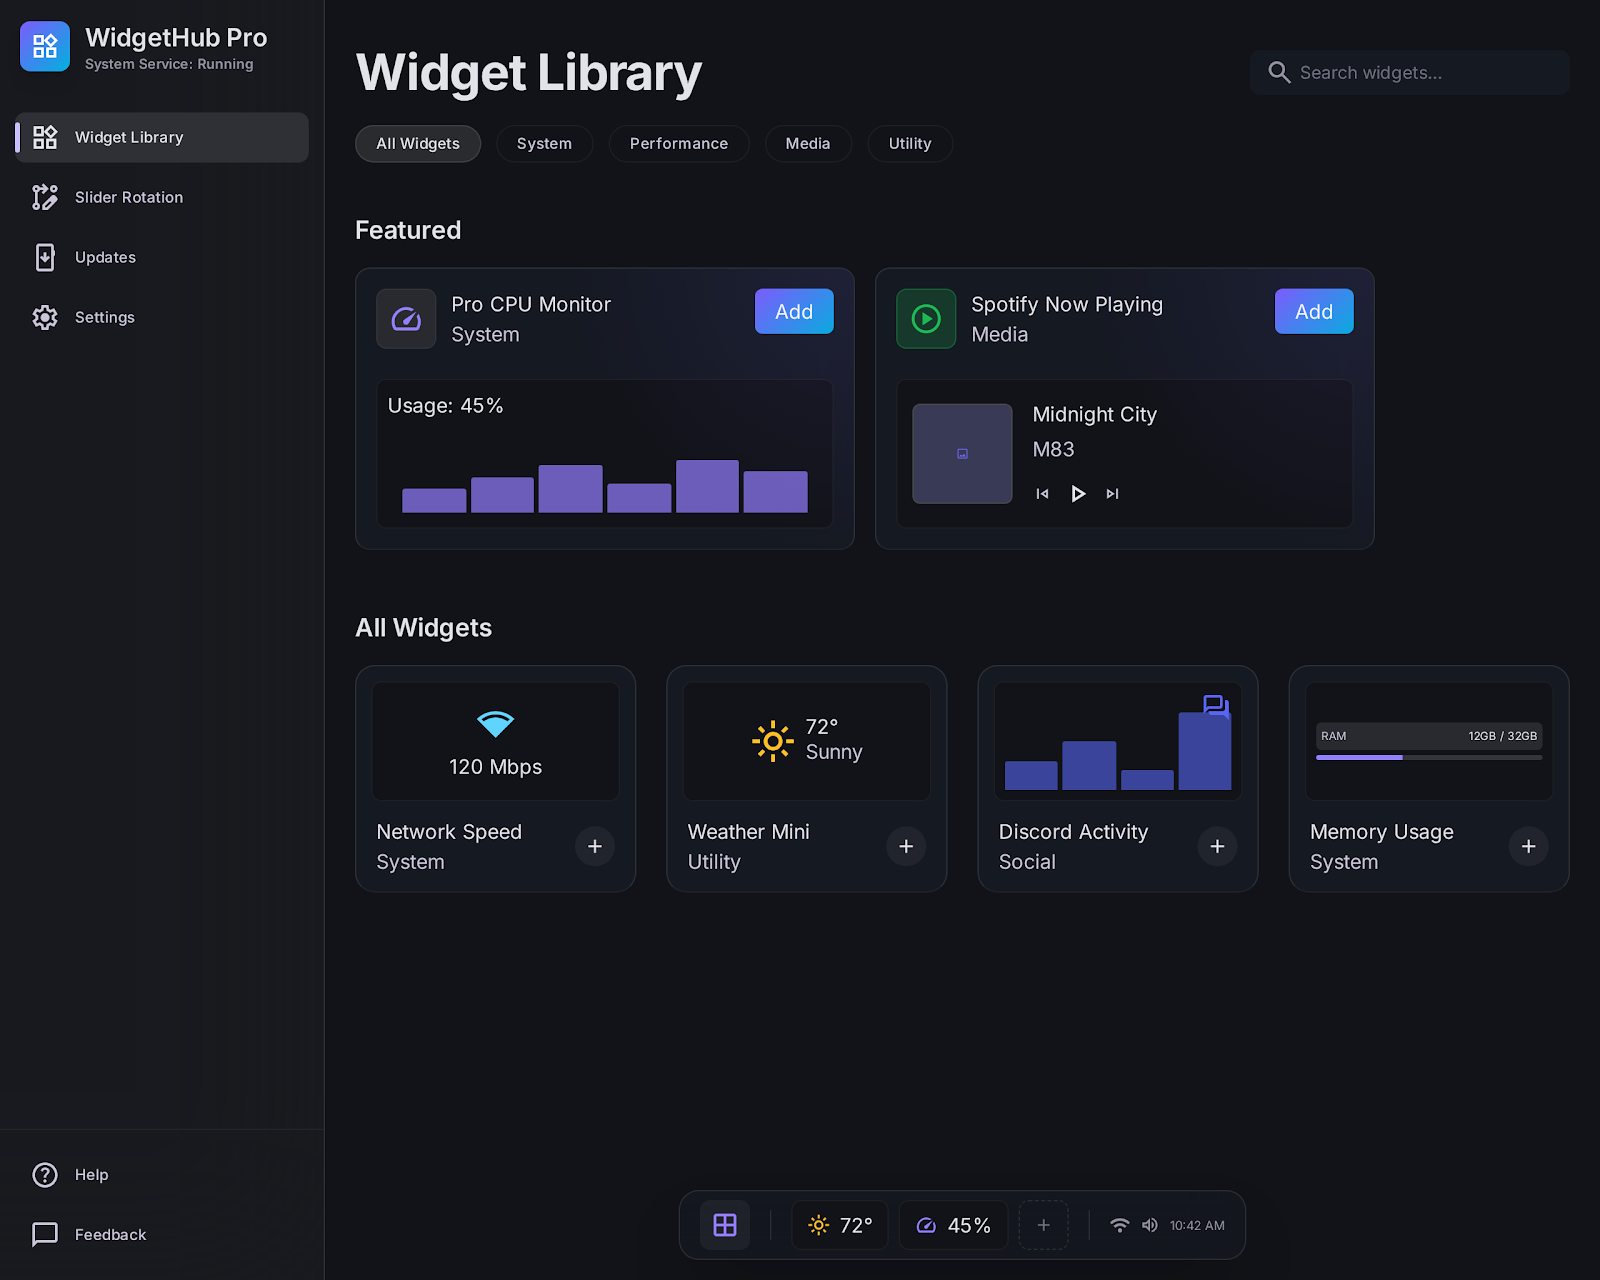
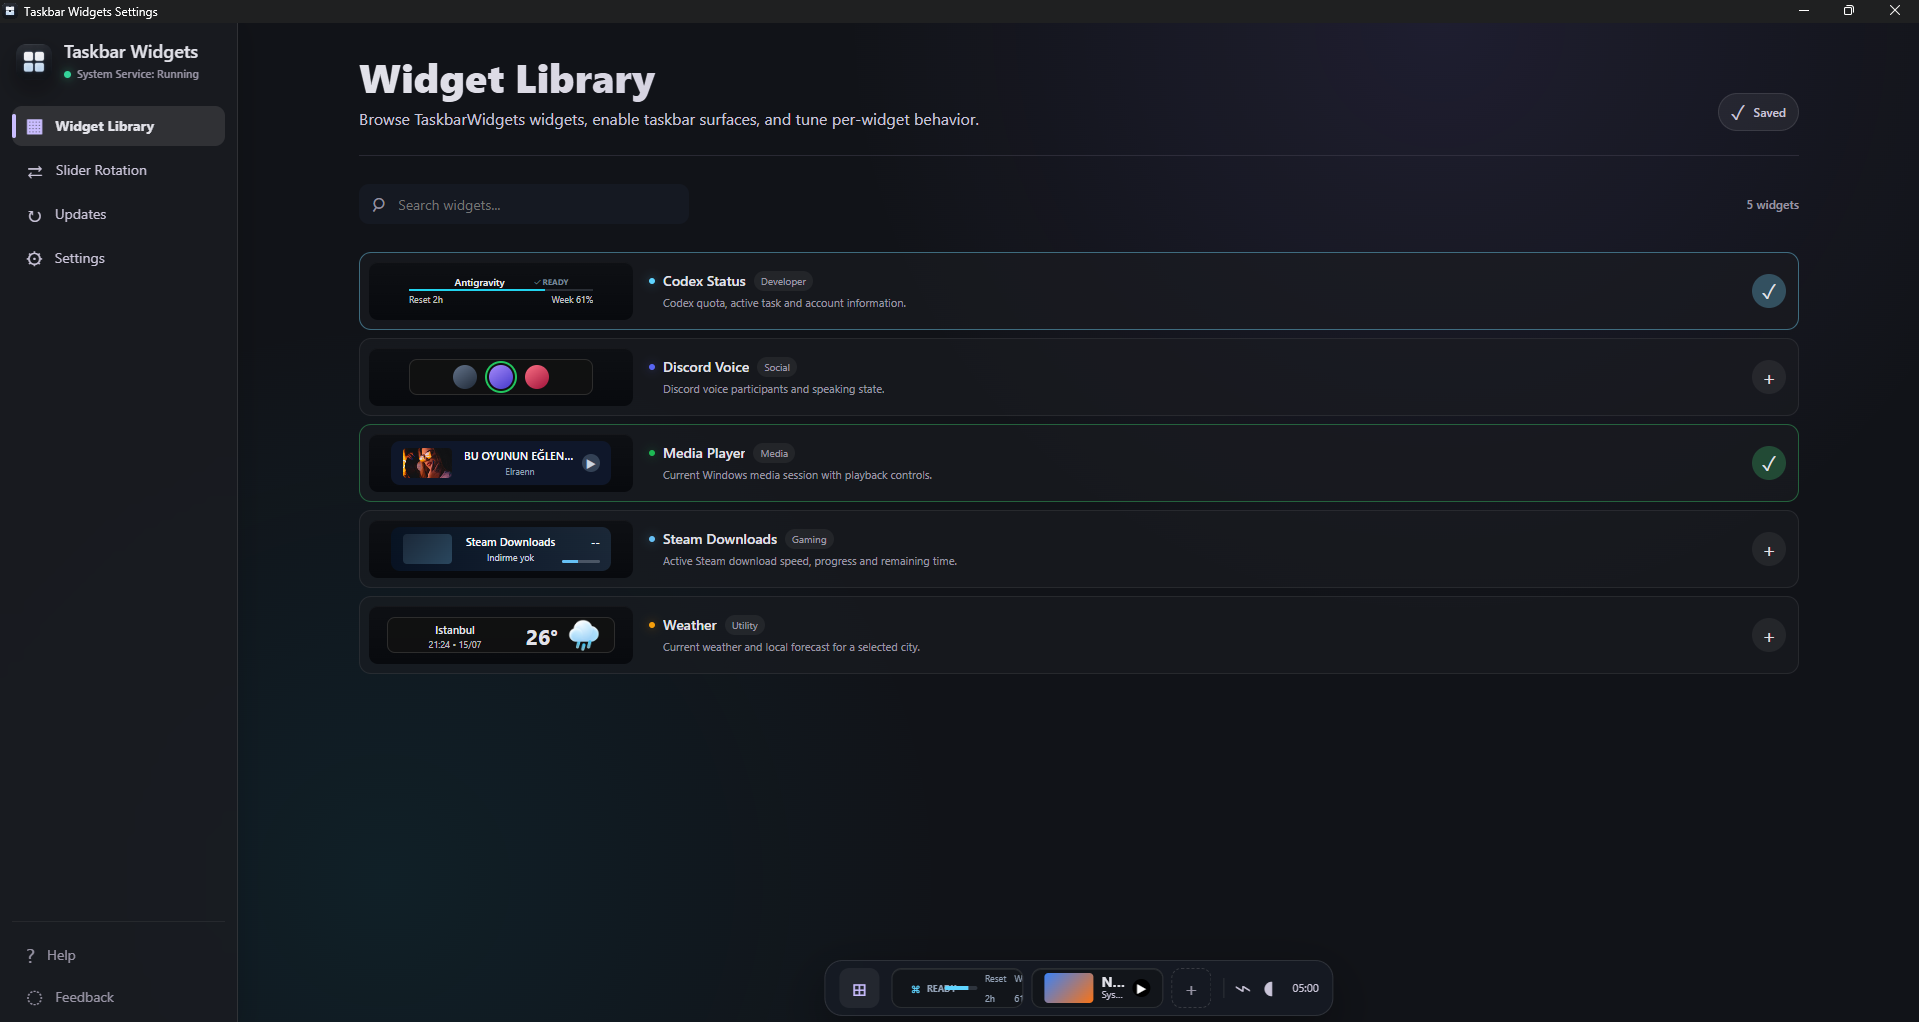
Rewrite README with downloads and real screenshots

diff --git a/README.md b/README.md
@@ -1,35 +1,172 @@
 <p align="center">
-  <img src="assets/branding/logo.png" alt="Taskbar Widgets logo" width="96" height="96" />
+  <img src="assets/branding/logo.png" alt="Taskbar Widgets logo" width="112" height="112" />
 </p>
 
-# Taskbar Widgets
+<h1 align="center">Taskbar Widgets</h1>
 
-Taskbar Widgets is an open-source Windows 11 x64 application that places small,
-live widgets directly on the taskbar. The first catalog contains Codex Status,
-Weather, Discord Voice, Media Player, and Steam Downloads. Widgets can be shown
-side by side or in an optional rotation layout.
+<p align="center">
+  Live, native-looking widgets for the Windows 11 taskbar.
+</p>
 
-## Widget showcase
+<p align="center">
+  <a href="https://github.com/pfcdev/TaskbarWidgets/releases/latest"><img alt="Latest release" src="https://img.shields.io/github/v/release/pfcdev/TaskbarWidgets?sort=semver&display_name=tag&style=flat-square" /></a>
+  <img alt="Windows 11 x64" src="https://img.shields.io/badge/Windows%2011-x64-0078D4?style=flat-square&logo=windows11&logoColor=white" />
+  <a href="LICENSE"><img alt="MIT License" src="https://img.shields.io/badge/license-MIT-22c55e?style=flat-square" /></a>
+</p>
+
+<p align="center">
+  <a href="https://github.com/pfcdev/TaskbarWidgets/releases/latest/download/TaskbarWidgetsSetup-x64.exe"><strong>Download the latest installer</strong></a>
+  ·
+  <a href="https://github.com/pfcdev/TaskbarWidgets/releases/latest/download/TaskbarWidgets-portable-x64.zip">Portable ZIP</a>
+  ·
+  <a href="README.tr.md">Türkçe hızlı başlangıç</a>
+</p>
 
 <p align="center">
   <img src="assets/readme/widget-showcase.png" alt="Weather, Steam Downloads, Codex Status, and Media Player widgets running side by side on the Windows taskbar" />
 </p>
 
-<p align="center"><sub>Real taskbar output with multiple widgets enabled in row mode.</sub></p>
+Taskbar Widgets is an open-source Windows 11 x64 application that places useful,
+live information directly on the taskbar. Enable several widgets side by side,
+position them independently, or cycle through them with the optional rotation
+layout. The installer includes the loader, Settings application, native hook,
+media helper, and every built-in widget as one product.
 
 > [!WARNING]
-> The Explorer integration uses private Windows 11 XAML surfaces. Unsupported
-> Windows builds are detected at runtime and the hook fails closed, but this is
-> still beta software. See [Private API risks](docs/windows-private-api-risks.md).
+> Taskbar Widgets integrates with private Windows 11 XAML surfaces and is still
+> beta software. An incompatible taskbar layout disables the integration instead
+> of forcing it. Unsigned builds may also trigger a Windows SmartScreen warning.
+> Read the [private API risk notes](docs/windows-private-api-risks.md) before use.
 
-## Product model
+## One app for every widget
 
-Users install one product and launch `TaskbarWidgets.exe`. The loader owns data
-providers, lifecycle, migration, updates, and account management. Settings is an
-internal process opened with `TaskbarWidgets.exe --settings`. A native hook does
-only taskbar hosting and rendering; provider failures never run inside Explorer.
+<p align="center">
+  <img src="docs/images/settings-library.png" alt="Taskbar Widgets Settings application showing the complete Widget Library" />
+</p>
 
-User data is stored beside the installed program under `Data`:
+The built-in Widget Library shows the real taskbar design before a widget is
+enabled. Click anywhere on a widget card to configure it, then add it to the
+taskbar from the same screen. Slider Rotation, updates, runtime controls and
+global settings are available from the shared Settings application.
+
+## Included widgets
+
+<table>
+  <tr>
+    <td align="center" width="50%">
+      <img src="assets/readme/widget-weather.png" alt="Weather widget" /><br />
+      <strong>Weather</strong><br />
+      Current temperature, city and local forecast with configurable units.
+    </td>
+    <td align="center" width="50%">
+      <img src="assets/readme/widget-steam-downloads.png" alt="Steam Downloads widget" /><br />
+      <strong>Steam Downloads</strong><br />
+      Active game, download progress, speed and estimated remaining time.
+    </td>
+  </tr>
+  <tr>
+    <td align="center" width="50%">
+      <img src="assets/readme/widget-codex-status.png" alt="Codex Status widget" /><br />
+      <strong>Codex Status</strong><br />
+      Active task state, account information, quota usage and reset windows.
+    </td>
+    <td align="center" width="50%">
+      <img src="assets/readme/widget-media-player.png" alt="Media Player widget" /><br />
+      <strong>Media Player</strong><br />
+      Current Windows media session, cover art and playback controls.
+    </td>
+  </tr>
+</table>
+
+**Discord Voice** is also included. It shows voice participants and highlights
+the current speaker after Discord RPC authorization is configured in Settings.
+
+### Codex accounts and IDE controls
+
+<table>
+  <tr>
+    <td width="360" align="center">
+      <img src="assets/readme/codex-accounts-redacted.png" alt="Codex account switcher with email addresses redacted" />
+    </td>
+    <td>
+      <p>The Codex widget can manage multiple local Codex accounts without leaving the taskbar:</p>
+      <ul>
+        <li>switch the active account and inspect its current quota;</li>
+        <li>start the Codex login flow for a new or existing account;</li>
+        <li>remove an account from Taskbar Widgets;</li>
+        <li>restart the configured IDE with the active account profile.</li>
+      </ul>
+      <p><em>Email addresses are intentionally redacted in this screenshot.</em></p>
+    </td>
+  </tr>
+</table>
+
+## Highlights
+
+- Multiple widgets can run together in a configurable row.
+- Rotation mode can cycle through a selected widget queue.
+- Each widget has independent enable, order, anchor and pixel-offset settings.
+- Providers are isolated: one failed integration does not stop the other widgets.
+- Settings runs completely from local assets without a CDN or Google Fonts.
+- Snapshot writes are atomic and malformed state fails closed at the Explorer boundary.
+- The loader automatically recovers after Explorer restarts and supports safe unload/load.
+- Legacy TaskbarStats settings, accounts and profiles are migrated without deleting the source.
+- The built-in updater downloads only the complete installer and verifies its SHA-256 file.
+
+## Download and install
+
+Taskbar Widgets currently supports **Windows 11 x64**.
+
+| Package | Use case | Download |
+| --- | --- | --- |
+| Installer | Recommended installation and automatic updates | [TaskbarWidgetsSetup-x64.exe](https://github.com/pfcdev/TaskbarWidgets/releases/latest/download/TaskbarWidgetsSetup-x64.exe) |
+| Portable | Manual or self-contained use | [TaskbarWidgets-portable-x64.zip](https://github.com/pfcdev/TaskbarWidgets/releases/latest/download/TaskbarWidgets-portable-x64.zip) |
+| Release page | Notes, checksums and release manifest | [Latest GitHub release](https://github.com/pfcdev/TaskbarWidgets/releases/latest) |
+
+1. Download and run `TaskbarWidgetsSetup-x64.exe`.
+2. Choose the install directory, Windows startup behavior and shortcut options.
+3. Start Taskbar Widgets on the final installer page.
+4. Open Settings from the taskbar widget action or run:
+
+```powershell
+TaskbarWidgets.exe --settings
+```
+
+The default location is:
+
+```text
+%LOCALAPPDATA%\Programs\TaskbarWidgets
+```
+
+The uninstaller preserves user data unless **Also remove settings and data** is
+selected explicitly.
+
+### Verify a download
+
+The installer checksum is always available beside the latest release:
+
+```powershell
+$expected = (Invoke-WebRequest "https://github.com/pfcdev/TaskbarWidgets/releases/latest/download/TaskbarWidgetsSetup-x64.exe.sha256").Content.Split()[0]
+$actual = (Get-FileHash ".\TaskbarWidgetsSetup-x64.exe" -Algorithm SHA256).Hash.ToLowerInvariant()
+$actual -eq $expected
+```
+
+## Layout and Settings
+
+The Settings application provides a widget library, per-widget configuration,
+taskbar positioning, rotation sequencing, update controls and runtime load/unload.
+
+- **Row mode:** shows every enabled widget side by side in the configured order.
+- **Rotation mode:** shows widgets from a selected queue at a configurable interval.
+- **Positioning:** combines a taskbar anchor percentage with a fine pixel offset.
+- **Unknown widgets:** remain in configuration but stay disabled until supported.
+
+Settings is an internal component. Users launch `TaskbarWidgets.exe`; they do not
+need to install or manage a separate Settings product.
+
+## Data and privacy
+
+Mutable application data is kept under the installed product's `Data` directory:
 
 ```text
 %LOCALAPPDATA%\Programs\TaskbarWidgets\
@@ -44,42 +181,103 @@ User data is stored beside the installed program under `Data`:
     Logs\
 ```
 
-## Build
+Settings assets are local. Individual integrations may still use the network for
+their own data, such as weather requests, Discord authorization, Steam cover art
+and update checks. Secrets and account data are not stored in the repository.
 
-Requirements: Windows 11 x64, PowerShell 7 or Windows PowerShell 5.1, .NET 8
-SDK, Rust stable, Visual Studio 2022 Build Tools with C++/Windows SDK, CMake, and
-NSIS for packaging.
+## How it works
+
+Taskbar Widgets separates network and account work from Explorer:
+
+```text
+Settings UI ──> Data/config.json ──> Loader and providers
+     ^                                      │
+     │                                      v
+Data/Commands/*.json <── actions ── Data/State/*.json
+     │                                      │
+     └──────────────── Explorer hook <──────┘
+```
+
+- The **.NET loader** supervises providers, accounts, commands, migration and updates.
+- The **Tauri Settings app** edits configuration through an offline web interface.
+- The **native hook** hosts and renders validated snapshots on the Windows taskbar.
+- The **media helper** talks to Windows media sessions outside Explorer.
+
+Provider code never executes inside Explorer. Read the full
+[architecture](docs/architecture.md) and [widget protocol](docs/protocol.md) for
+the runtime boundaries and versioned data contracts.
+
+## Build from source
+
+Requirements:
+
+- Windows 11 x64
+- PowerShell 5.1 or newer
+- .NET 8 SDK
+- Rust stable and Cargo
+- Visual Studio 2022 Build Tools with MSVC x64, Windows 11 SDK and CMake
+- NSIS 3 for installer packaging
 
 ```powershell
+git clone https://github.com/pfcdev/TaskbarWidgets.git
+cd TaskbarWidgets
+
 .\build.ps1 -Target Verify
 .\build.ps1 -Target Build
 .\build.ps1 -Target Package -InstallDependencies
 ```
 
-`VERSION` is the single version source. Package output contains only the full
-installer, portable ZIP, SHA-256 files, and a release manifest. Detailed setup
-is in [Building](docs/building.md).
+`VERSION` is the single version source. Build outputs are written under
+`artifacts/`. Contributors do **not** need Windhawk. See the detailed
+[build guide](docs/building.md) for toolchain and signing information.
 
-## Repository
+## Repository layout
 
 ```text
-src/loader/       .NET runtime, providers, accounts, commands, updates
-src/settings/     Tauri settings application and offline web UI
-src/native/       Explorer hook, taskbar renderer, media helper
-widgets/<id>/     manifest, provider source, assets
+src/loader/       .NET runtime, providers, accounts, commands and updater
+src/settings/     Tauri Settings application and offline web UI
+src/native/       Explorer hook, taskbar renderer and media helper
+widgets/<id>/     widget manifest, provider source and assets
 installer/        NSIS installer
-build/            validation, build, package, signing, release scripts
+build/            validation, build, package, signing and release scripts
 docs/             architecture and contributor documentation
-tests/            Explorer-independent contract tests
+tests/            Explorer-independent contract and native tests
 ```
 
-Read [Architecture](docs/architecture.md), [Widget protocol](docs/protocol.md),
-and [Adding a widget](docs/adding-a-widget.md) before changing runtime contracts.
+## Create a widget
+
+Built-in widgets use a source contribution model. Each widget owns a
+`widgets/<widget-id>/widget.json` manifest and can provide data through the C#
+`IWidgetProvider` contract and render native taskbar UI through the C++ renderer
+boundary. Arbitrary external DLLs or executable widget packages are not loaded
+in v1.
+
+Start with [Adding a widget](docs/adding-a-widget.md), then review the
+[protocol](docs/protocol.md) and [architecture](docs/architecture.md).
+
+## Troubleshooting
+
+- **Widgets are missing:** confirm Windows 11 x64, restart Explorer once and inspect `Data\Logs\loader.log` and `Data\Logs\hook.log`.
+- **One integration fails:** inspect `Data\State\<widget-id>.json`; other providers should continue running.
+- **Settings does not open:** run `TaskbarWidgets.exe --settings` and verify `TaskbarWidgets.Settings.exe` exists beside it.
+- **SmartScreen appears:** compare the installer with the published SHA-256 file before continuing.
+
+More solutions are available in the [troubleshooting guide](docs/troubleshooting.md).
 
 ## Contributing and security
 
-Contributions are welcome under [CONTRIBUTING.md](CONTRIBUTING.md). Do not post
-security vulnerabilities in public issues; follow [SECURITY.md](SECURITY.md).
-Taskbar Widgets is licensed under the [MIT License](LICENSE).
+Contributions are welcome. Read [CONTRIBUTING.md](CONTRIBUTING.md) before opening
+a pull request. Report security issues through the process in
+[SECURITY.md](SECURITY.md), not in a public issue.
 
-Türkçe kurulum özeti için [README.tr.md](README.tr.md) dosyasına bakın.
+Taskbar Widgets is released under the [MIT License](LICENSE).
+
+---
+
+<p align="center">
+  <a href="https://github.com/pfcdev/TaskbarWidgets/releases/latest/download/TaskbarWidgetsSetup-x64.exe"><strong>Download Taskbar Widgets</strong></a>
+  ·
+  <a href="https://github.com/pfcdev/TaskbarWidgets/issues">Report an issue</a>
+  ·
+  <a href="README.tr.md">Türkçe</a>
+</p>